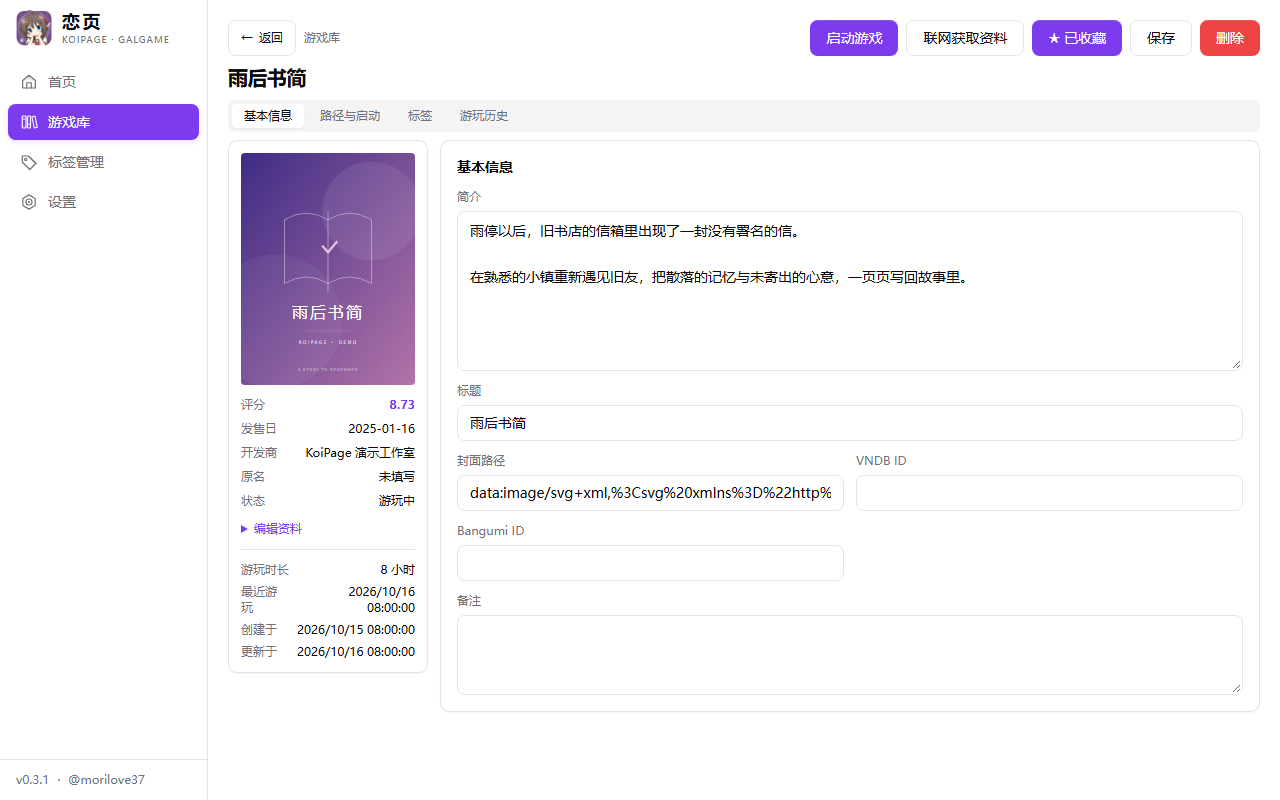
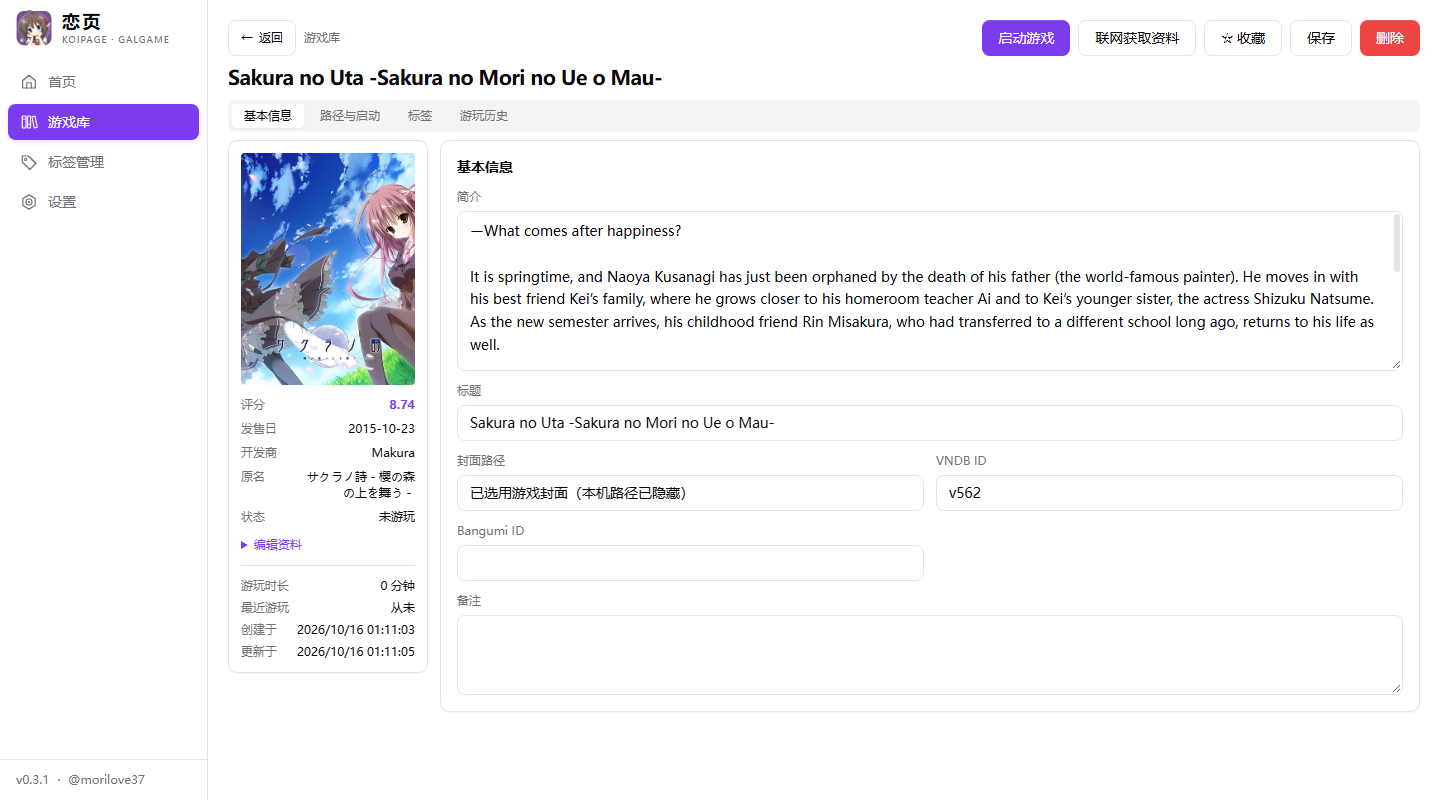
docs: showcase the imported game library in project screenshots

diff --git a/README.md b/README.md
@@ -26,7 +26,7 @@
 
 ## 界面预览
 
-以下为应用实际界面，使用虚构游戏和自制封面演示，不包含个人游戏库。
+以下截图使用维护者实际导入的游戏与封面，展示应用界面；本机完整路径已遮盖。游戏封面与作品资料归各自权利人所有。
 
 ### 首页：从上次的故事继续
 
